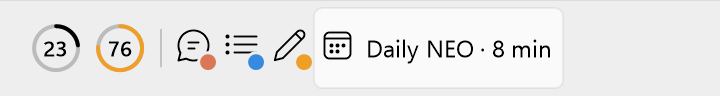
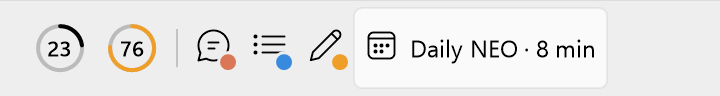
Separación intermedia entre íconos (6 px) y captura de la barra actualizada

Changed region(s): [[0.0306, 0.25, 0.825, 0.75], [0.7944, 0.4062, 0.825, 0.4375]]

diff --git a/tools/screenshots.cs b/tools/screenshots.cs
@@ -52,26 +52,26 @@ static class Screenshots
             g.Clear(bg);
             using (var p = new Pen(light ? Color.FromArgb(220, 220, 220) : Color.FromArgb(50, 50, 50), S)) g.DrawLine(p, 0, 0, w, 0);
             float x = 12 * S, top = 4 * S, box = 40 * S;
-            Ring(g, x, top, 23, "23", fg, fg); x += 32 * S;
-            Ring(g, x, top, 76, "76", Warn, fg); x += 32 * S;
+            Ring(g, x, top, 23, "23", fg, fg); x += 36 * S;
+            Ring(g, x, top, 76, "76", Warn, fg); x += 36 * S;
             using (var p = new Pen(Color.FromArgb(46, fg), S)) g.DrawLine(p, x + 4.5f * S, h * 0.3f, x + 4.5f * S, h * 0.7f);
             x += 9 * S;
-            Glyph(g, x, top, GChat, fg, Clay, bg); x += 24 * S;
-            Glyph(g, x, top, GList, fg, Blue, bg); x += 24 * S;
-            Glyph(g, x, top, GEdit, fg, Warn, bg); x += 24 * S;
+            Glyph(g, x, top, GChat, fg, Clay, bg); x += 28 * S;
+            Glyph(g, x, top, GList, fg, Blue, bg); x += 28 * S;
+            Glyph(g, x, top, GEdit, fg, Warn, bg); x += 28 * S;
             // Calendario con hover, como cuando se pasa el mouse.
             string label = "Daily NEO · 8 min";
             float lw;
             using (var f = Text(12)) lw = g.MeasureString(label, f, PointF.Empty, StringFormat.GenericTypographic).Width;
-            var hov = new RectangleF(x, top, 4 * S + 16 * S + 6 * S + lw + 6 * S, box);
+            var hov = new RectangleF(x, top, 6 * S + 16 * S + 6 * S + lw + 6 * S, box);
             using (var path = Round(hov, 4 * S))
             {
                 using (var b = new SolidBrush(light ? Color.FromArgb(180, 255, 255, 255) : Color.FromArgb(22, 255, 255, 255))) g.FillPath(b, path);
                 using (var p = new Pen(light ? Color.FromArgb(14, 0, 0, 0) : Color.FromArgb(18, 255, 255, 255), S)) g.DrawPath(p, path);
             }
-            DrawGlyph(g, new RectangleF(x + 4 * S, top + 12 * S, 16 * S, 16 * S), GCal, fg);
+            DrawGlyph(g, new RectangleF(x + 6 * S, top + 12 * S, 16 * S, 16 * S), GCal, fg);
             using (var f = Text(12)) using (var b = new SolidBrush(fg))
-                g.DrawString(label, f, b, new RectangleF(x + 26 * S, top, lw + 4 * S, box),
+                g.DrawString(label, f, b, new RectangleF(x + 28 * S, top, lw + 4 * S, box),
                     new StringFormat(StringFormat.GenericTypographic) { LineAlignment = StringAlignment.Center });
         }
         return bmp;
@@ -79,7 +79,7 @@ static class Screenshots
 
     static void Ring(Graphics g, float x, float top, float value, string text, Color arc, Color fg)
     {
-        float d = 24 * S, stroke = 2 * S, cx = x + 4 * S, cy = top + 8 * S;
+        float d = 24 * S, stroke = 2 * S, cx = x + 6 * S, cy = top + 8 * S;
         var c = new RectangleF(cx + stroke / 2, cy + stroke / 2, d - stroke, d - stroke);
         using (var p = new Pen(Color.FromArgb(55, fg), stroke)) g.DrawEllipse(p, c);
         using (var p = new Pen(arc, stroke) { StartCap = LineCap.Round, EndCap = LineCap.Round }) g.DrawArc(p, c, -90, 360 * value / 100);
@@ -89,7 +89,7 @@ static class Screenshots
 
     static void Glyph(Graphics g, float x, float top, string glyph, Color fg, Color badge, Color bg)
     {
-        var icon = new RectangleF(x + 4 * S, top + 12 * S, 16 * S, 16 * S);
+        var icon = new RectangleF(x + 6 * S, top + 12 * S, 16 * S, 16 * S);
         DrawGlyph(g, icon, glyph, fg);
         float d = 8 * S, ring = 1.5f * S, cx = icon.Right - S, cy = icon.Bottom - S;
         using (var b = new SolidBrush(bg)) g.FillEllipse(b, cx - d / 2 - ring, cy - d / 2 - ring, d + 2 * ring, d + 2 * ring);

diff --git a/TaskbarMonitor.cs b/TaskbarMonitor.cs
@@ -3021,7 +3021,7 @@ class MonitorForm : Form
     float SeparatorSpace { get { return 9 * scale; } }
     float Slot { get { return Math.Min(24 * scale, BoxH - 6 * scale); } } // 24 px: el espacio del ícono, como en los botones nativos
     float Pad { get { return (BoxH - Slot) / 2; } }
-    float HPad { get { return 4 * scale; } }
+    float HPad { get { return 6 * scale; } }
     float RingD { get { return Slot; } }
     float GlyphSize { get { return 16 * scale; } }
 

diff --git a/README.md b/README.md
@@ -13,8 +13,8 @@ indicadores que aparecen solo cuando hay algo que mostrar.
 | Calendario | Siempre al final. Muestra el nombre y los minutos de la reunión en curso o de la próxima hora. | Unirse a la reunión |
 
 Doble clic o clic derecho en el widget abre **Ajustes**, donde cada persona configura lo suyo. Todo se aplica al momento.
-Para moverlo, arrastrarlo a lo largo de la barra de tareas: la posición se recuerda. Los íconos usan el mismo espaciado
-que el botón nativo "Mostrar íconos ocultos" (4 px a cada lado).
+Para moverlo, arrastrarlo a lo largo de la barra de tareas: la posición se recuerda. Los íconos llevan un espaciado
+con 6 px a cada lado.
 
 ## Capturas
 
